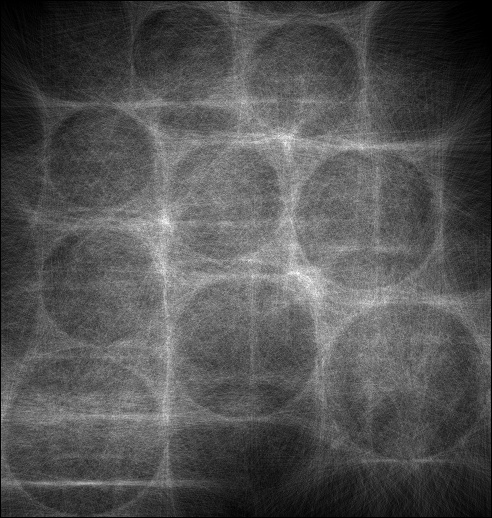
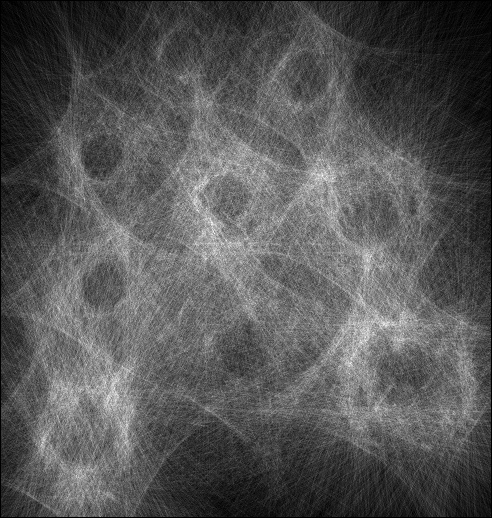
Hotfix Hough 2

diff --git a/main.cpp b/main.cpp
@@ -67,7 +67,7 @@ int main( int argc, char** argv )
     
     int rows = magnitude.rows;
     int cols = magnitude.cols;
-    int radiusMax = 150;
+    int radiusMax = 200;
 
     int*** hough = malloc3dArray(rows, cols, radiusMax);
 
@@ -76,7 +76,7 @@ int main( int argc, char** argv )
 
     for(int x = 0; x < rows; x++) {	
 		for(int y = 0; y < cols; y++) {
-            if(magnitude.at<float>(x, y) > 60)
+            if(magnitude.at<float>(x, y) > 120)
                 magnitude.at<float>(x, y) = 255;
             else
                 magnitude.at<float>(x, y) = 0;
@@ -101,10 +101,8 @@ void visualiseHough(int ***hough, int rows, int cols, int radiusMax) {
     for(int x = 1; x < rows-1; x++) {	
         for(int y = 1; y < cols-1; y++) {
             float result = 0;
-            int max = 0;
             for(int r = 0; r < radiusMax; r++) {
                 result += hough[x][y][r];
-                if(hough[x][y][r] > max) max = hough[x][y][r];
             }
         
             // Colapse the 3d Hough transform into 2d
@@ -127,9 +125,10 @@ void calculateHough(Mat& magnitude, Mat& direction, int ***hough, int radiusMax)
             if(magnitude.at<float>(x,y) <= 10)
                 continue;
 
-            float dir = direction.at<float>(x,y);
+            float dir = direction.at<float>(x,y) + 90.0f;
 
-            for(int radius = 10; radius < radiusMax - 10; radius++) {
+
+            for(int radius = 0; radius < radiusMax ; radius++) {
 
                 int x0p = x + radius * cos(dir);
                 int x0m = x - radius * cos(dir);
@@ -139,22 +138,22 @@ void calculateHough(Mat& magnitude, Mat& direction, int ***hough, int radiusMax)
 
                 // X+ Y+
                 if(x0p >= 0 && x0p < rows && y0p >= 0 && y0p < cols) {
-                    hough[x0p][y0p][radius - 10] += 1;
+                    hough[x0p][y0p][radius] += 1;
                 }
 
                 // X+ Y-
                 if(x0p >= 0 && x0p < rows && y0m >= 0 && y0m < cols) {
-                    hough[x0p][y0m][radius - 10] += 1;
+                    hough[x0p][y0m][radius] += 1;
                 }
 
                 // X- Y+
                 if(x0m >= 0 && x0m < rows && y0p >= 0 && y0p < cols) {
-                    hough[x0m][y0p][radius - 10] += 1;
+                    hough[x0m][y0p][radius] += 1;
                 }
 
                 // X- Y-
                 if(x0m >= 0 && x0m < rows && y0m >= 0 && y0m < cols) {
-                    hough[x0m][y0m][radius - 10] += 1;
+                    hough[x0m][y0m][radius] += 1;
                 }
 
             }
